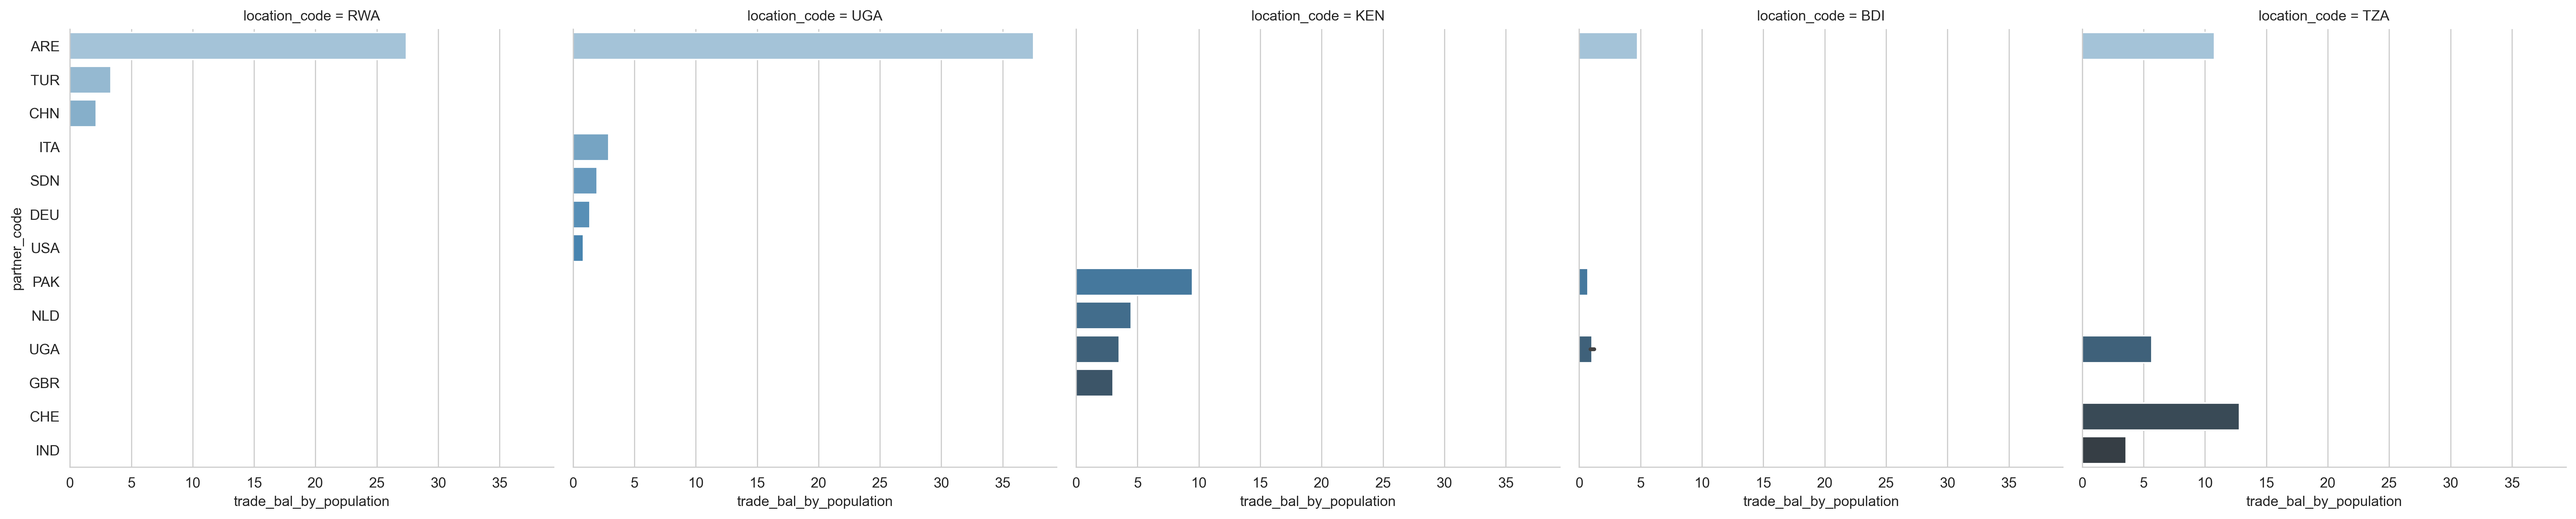
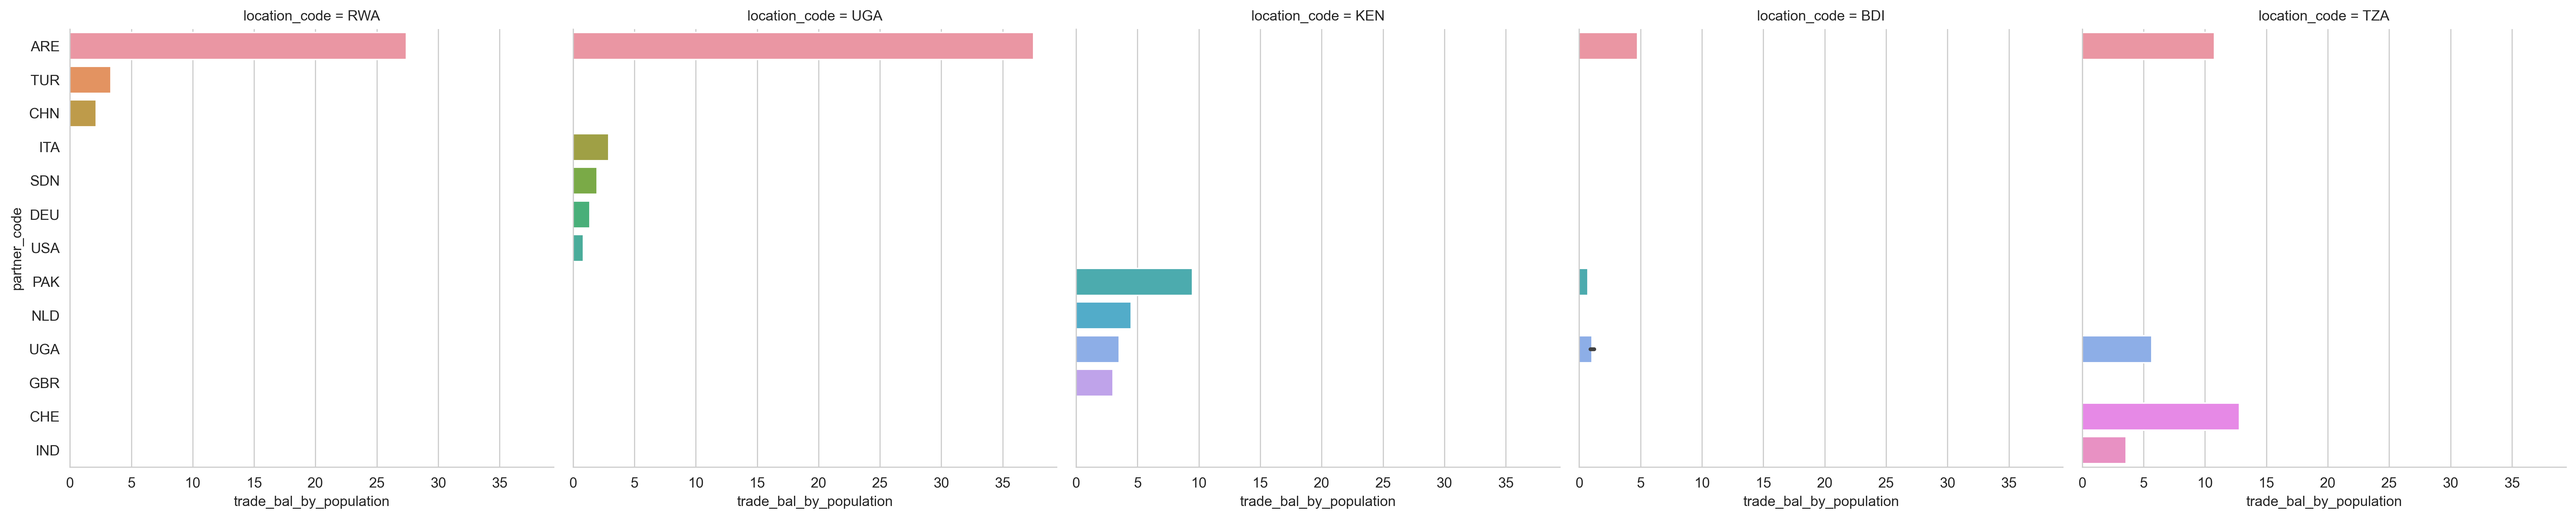
update eda

diff --git a/python/explore_energy_generation.py b/python/explore_energy_generation.py
@@ -96,9 +96,9 @@ combined_df = pl.concat([rwa_df, uga_df, ken_df, bdi_df, tza_df])
 # Plot bar plot with each subfigure representing a country code 
 # Use trade_bal_by_population as the y variable
 # write the code 
-fig, ax = plt.subplots(figsize=(10, 6))
+fig, ax = plt.subplots(figsize=(4, 3))
 sns.set_style("whitegrid")
-sns.catplot(x='trade_bal_by_population', y='partner_code', data=combined_df.to_pandas(), palette='Blues_d', kind='bar', col='location_code')
+sns.catplot(x='trade_bal_by_population', y='partner_code', data=combined_df.to_pandas(), kind='bar', col='location_code')
 plt.savefig('../output/top10partners_all.png', dpi=300, bbox_inches='tight')
 
 # Plot bar plot andsave plot as png to output folder. Use seaborn for styling
